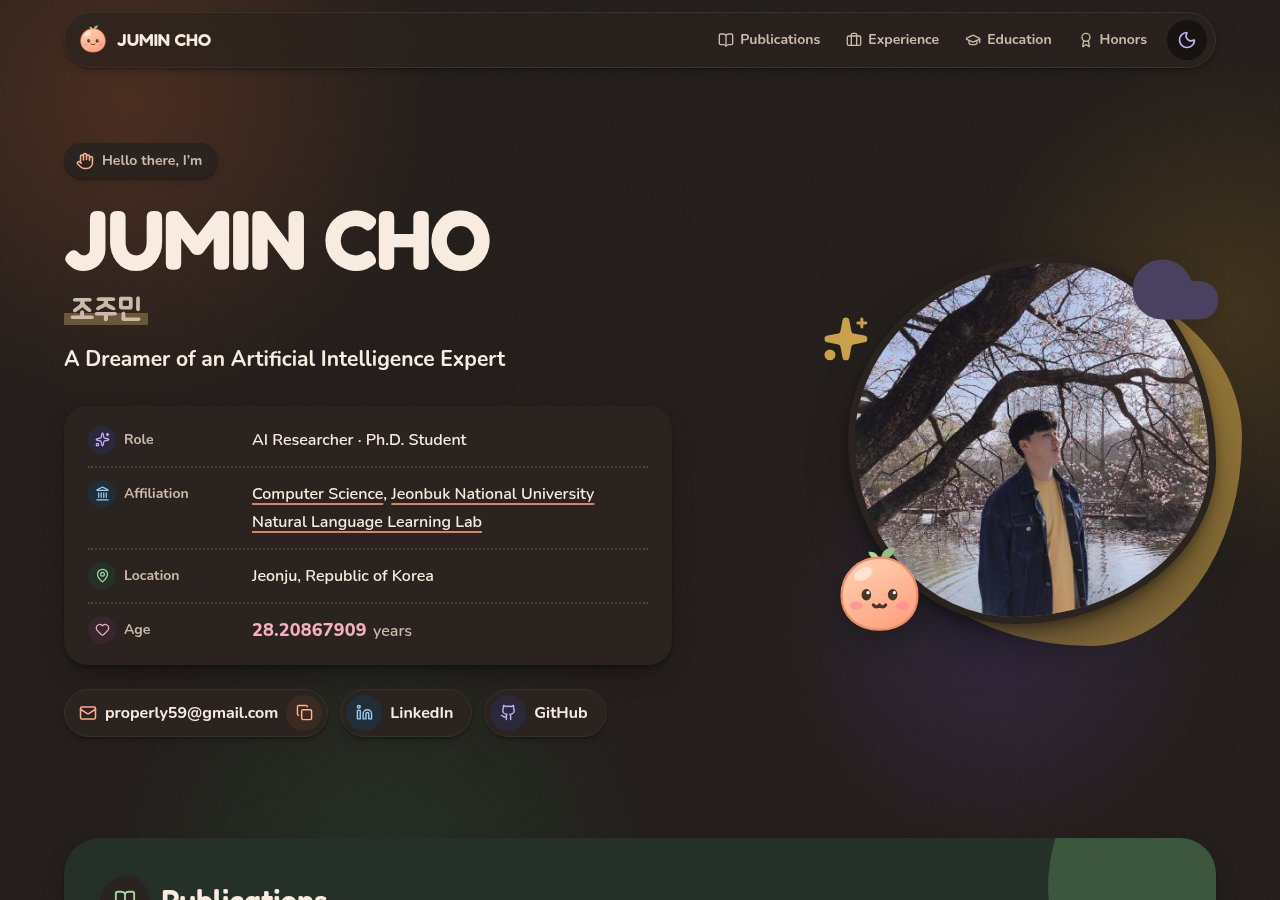
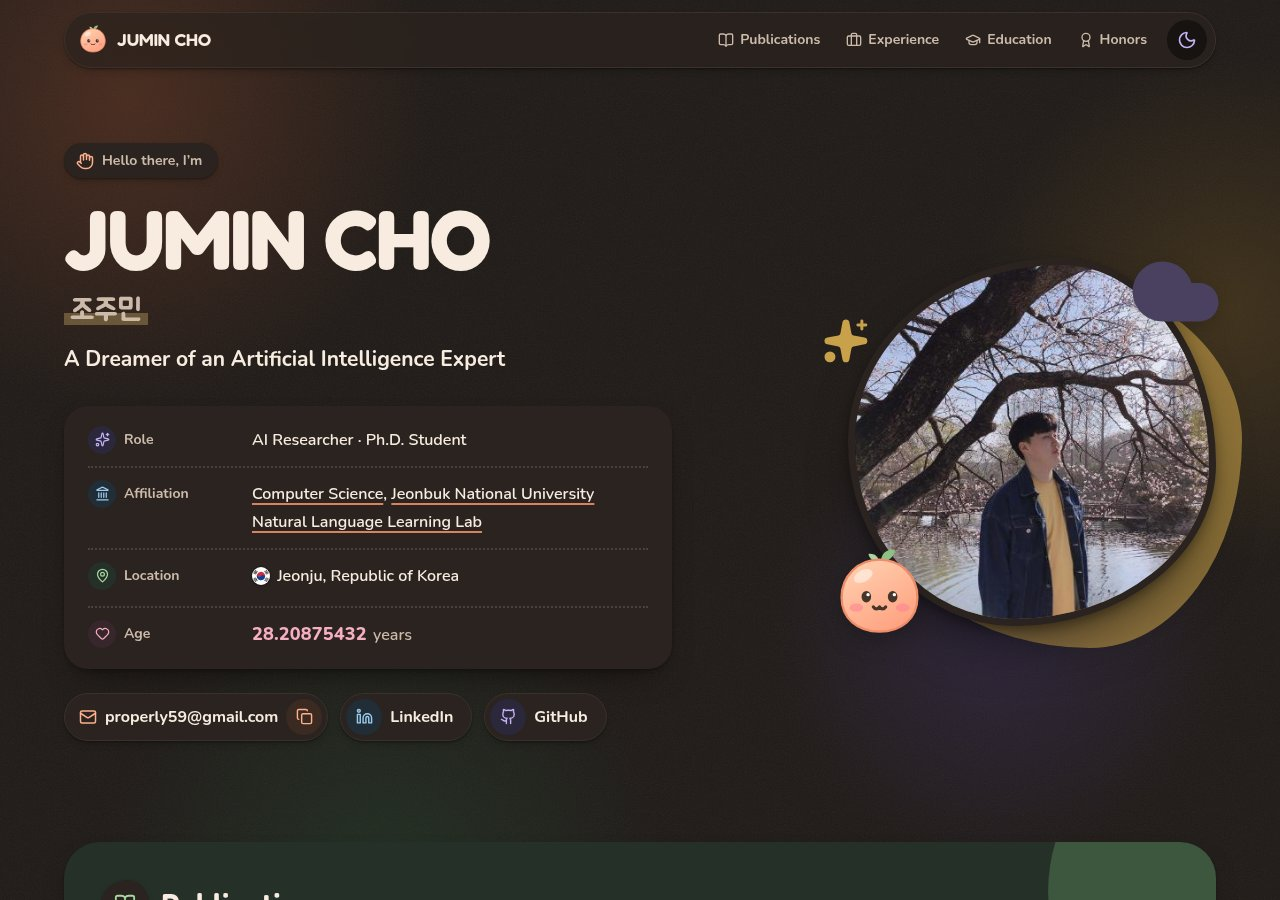
Put a round Korean flag before the hero location
- Draw the Taegukgi in Flag.tsx, scaled into the round sticker with the
  trigrams on the flag's diagonals (geon top left, gon bottom right,
  ri bottom left, gam top right).
- Model profile.location as a Place, like the paper venues, and render
  both with a shared PlaceName component.
- Refresh the README previews and describe the flag in the docs.

diff --git a/src/components/Flag.tsx b/src/components/Flag.tsx
@@ -5,9 +5,31 @@ import styles from './Flag.module.css'
 /*
  * Flags drawn on a 24 × 24 grid and shown as round stickers. Emoji flags are
  * not an option: Windows renders them as two letters. National colours are
- * fixed, so they are not tokens. Add a country here when a new venue needs it.
+ * fixed, so they are not tokens. Add a country here when a new place needs it.
  */
 const drawings: Record<string, ReactNode> = {
+  // Taegukgi, scaled into the circle. Trigrams sit on the flag's diagonals
+  // (rotated 56.31° / 123.69°): ☰ geon top left, ☷ gon bottom right,
+  // ☲ ri bottom left, ☵ gam top right. Red is above the geon–gon diagonal.
+  KR: (
+    <>
+      <rect width="24" height="24" fill="#ffffff" />
+      <g transform="translate(12 12)" stroke="#000000" strokeWidth="0.9">
+        <g transform="rotate(-56.31)">
+          <path d="M-2.5-7.45h5M-2.5-8.8h5M-2.5-10.15h5" />
+          <path d="M-2.5 7.45h2.25m.5 0h2.25M-2.5 8.8h2.25m.5 0h2.25M-2.5 10.15h2.25m.5 0h2.25" />
+        </g>
+        <g transform="rotate(-123.69)">
+          <path d="M-2.5-7.45h5M-2.5-8.8h2.25m.5 0h2.25M-2.5-10.15h5" />
+          <path d="M-2.5 7.45h2.25m.5 0h2.25M-2.5 8.8h5M-2.5 10.15h2.25m.5 0h2.25" />
+        </g>
+        <g transform="rotate(-56.31)" stroke="none">
+          <circle r="5.6" fill="#cd2e3a" />
+          <path d="M0-5.6A2.8 2.8 0 0 0 0 0a2.8 2.8 0 0 1 0 5.6A5.6 5.6 0 0 1 0-5.6z" fill="#0047a0" />
+        </g>
+      </g>
+    </>
+  ),
   IT: (
     <>
       <rect width="8" height="24" fill="#009246" />

diff --git a/src/sections/Publications.tsx b/src/sections/Publications.tsx
@@ -1,7 +1,7 @@
 import { ArrowUpRight } from 'lucide-react'
 import ExternalLink from '../components/ExternalLink'
-import Flag from '../components/Flag'
 import Panel from '../components/Panel'
+import PlaceName from '../components/PlaceName'
 import { publications, selfNames } from '../data/profile'
 import type { Publication } from '../data/types'
 import { panelProps } from './looks'
@@ -35,8 +35,7 @@ export default function Publications() {
               <p className={styles.venue}>{venueLabel(paper)}</p>
               {paper.place && (
                 <p className={styles.place}>
-                  <Flag code={paper.place.countryCode} />
-                  {`${paper.place.city}, ${paper.place.country}`}
+                  <PlaceName place={paper.place} />
                 </p>
               )}
             </div>

diff --git a/src/data/profile.ts b/src/data/profile.ts
@@ -6,7 +6,7 @@
  * `vite.config.ts` also reads `site` to fill the <head> tags, so keep this file
  * free of browser-only code.
  */
-import type { Honor, Link, Publication, SectionMeta, TimelineEntry } from './types'
+import type { Honor, Link, Place, Publication, SectionMeta, TimelineEntry } from './types'
 
 export const site = {
   title: 'JUMIN WHO?',
@@ -24,7 +24,7 @@ export const profile = {
   nameKo: '조주민',
   tagline: 'A Dreamer of an Artificial Intelligence Expert',
   role: 'AI Researcher · Ph.D. Student',
-  location: 'Jeonju, Republic of Korea',
+  location: { city: 'Jeonju', country: 'Republic of Korea', countryCode: 'KR' } satisfies Place,
   /** Birth instant (KST) for the live age counter. */
   birth: '1998-07-10T00:00:00+09:00',
   email: 'properly59@gmail.com',

diff --git a/src/sections/Hero.tsx b/src/sections/Hero.tsx
@@ -7,6 +7,7 @@ import LiveAge from '../components/LiveAge'
 import Mascot from '../components/Mascot'
 import NameFlip from '../components/NameFlip'
 import type { Tone } from '../components/Panel'
+import PlaceName from '../components/PlaceName'
 import { labels, profile } from '../data/profile'
 import { useScrolled } from '../hooks/useScrolled'
 import { cx } from '../lib/cx'
@@ -94,7 +95,7 @@ export default function Hero() {
             </ExternalLink>
           </Fact>
           <Fact icon={MapPin} tone="sage" label={labels.location}>
-            {profile.location}
+            <PlaceName place={profile.location} />
           </Fact>
           <Fact icon={Heart} tone="rose" label={labels.age} beating>
             <span className={styles.age}>

diff --git a/src/components/PlaceName.tsx b/src/components/PlaceName.tsx
@@ -1,0 +1,14 @@
+import type { Place } from '../data/types'
+import { cx } from '../lib/cx'
+import Flag from './Flag'
+import styles from './PlaceName.module.css'
+
+/** "Rome, Italy" with the country's round flag in front. */
+export default function PlaceName({ place, className }: { place: Place; className?: string }) {
+  return (
+    <span className={cx(styles.place, className)}>
+      <Flag code={place.countryCode} />
+      {`${place.city}, ${place.country}`}
+    </span>
+  )
+}

diff --git a/src/data/types.ts b/src/data/types.ts
@@ -20,7 +20,7 @@ export interface TimelineEntry {
   advisor?: Link
 }
 
-/** Where a conference took place. */
+/** A city, shown with its country's flag: where Jumin is based, or where a conference took place. */
 export interface Place {
   city: string
   country: string

diff --git a/src/sections/Publications.module.css b/src/sections/Publications.module.css
@@ -43,9 +43,6 @@
 }
 
 .place {
-  display: inline-flex;
-  align-items: center;
-  gap: 6px;
   color: var(--ink-soft);
   font-size: var(--text-xs);
   font-weight: 700;

diff --git a/src/components/PlaceName.module.css b/src/components/PlaceName.module.css
@@ -1,0 +1,5 @@
+.place {
+  display: inline-flex;
+  align-items: center;
+  gap: 0.45em;
+}

diff --git a/README.md b/README.md
@@ -24,7 +24,7 @@ Jeonbuk National University.
 - A live age counter, running from 1998-07-10 to eight decimal places.
 - Mongle the mascot, a peach mochi that becomes the favicon, the app icons and the link-preview
   (Open Graph) image.
-- Round flag stickers that show where each paper was presented.
+- Round flag stickers in front of places: where Jumin is based, and where each paper was presented.
 - A theme toggle that follows the operating system until you pick one, a copy-email button and
   print styles.
 - Respect for reduced motion, screen readers and keyboard navigation, with WCAG AA contrast or
@@ -58,7 +58,7 @@ it to GitHub Pages.
 ├── src/
 │   ├── data/                     profile.ts (all content) and types.ts
 │   ├── sections/                 Hero, Publications, Experience, Education, Honors
-│   ├── components/               NameFlip, LiveAge, Panel, Timeline, Flag, CopyEmail, ThemeToggle, …
+│   ├── components/               NameFlip, LiveAge, Panel, Timeline, Flag, PlaceName, CopyEmail, …
 │   ├── layout/                   Header, Footer, Backdrop (the drifting blobs)
 │   ├── hooks/                    useScrolled, useActiveSection, useTheme
 │   ├── lib/                      cx, theme
@@ -98,7 +98,7 @@ Edit `src/data/profile.ts` and nothing else; components never hold facts or word
 | Export | Holds |
 | --- | --- |
 | `site` | Page title, description, address and last-updated month; the `<head>` tags are built from it |
-| `profile` | Name, alias, Korean name, tagline, affiliation, birth instant, email, photo and links |
+| `profile` | Name, alias, Korean name, tagline, affiliation, location, birth instant, email, photo and links |
 | `sections` | Section order, titles and navigation labels |
 | `publications`, `selfNames` | Papers, with venue and place, and the spellings of Jumin's name to highlight |
 | `experience`, `education` | Timeline entries; periods are `{ from, to?, expected? }` |
@@ -107,8 +107,9 @@ Edit `src/data/profile.ts` and nothing else; components never hold facts or word
 
 - Korean text is welcome anywhere. The build subsets the Korean display font (Jua) to exactly the
   characters in use.
-- A paper's `place` takes a city, a country and an ISO country code. Italy and Japan have flag
-  drawings in `src/components/Flag.tsx`; any other code shows a map pin until you add one.
+- Places (`profile.location` and each paper's `place`) take a city, a country and an ISO country
+  code. Korea, Italy and Japan have flag drawings in `src/components/Flag.tsx`; any other code
+  shows a map pin until you add one.
 - After changing the name, tagline, affiliation or photo, run `npm run icons` so the link-preview
   image matches.
 

diff --git a/docs/DESIGN.md b/docs/DESIGN.md
@@ -121,8 +121,9 @@ AI 연구자이자 박사과정생 조주민의 한 페이지 프로필입니다
 - 논문은 1차 출처(출판사 PDF, 프로시딩 페이지)로 링크합니다. 1차 출처가 없으면 검색 결과를 걸지 말고 링크 없이
   학회명만 씁니다.
 - 기간은 `{ from, to?, expected? }`로 적습니다. `to`가 없으면 "present"로 표시합니다.
-- 논문 개최지는 `place: { city, country, countryCode }`로 적습니다. 국기는 `Flag.tsx`에 SVG로 그리고, 그림이 없는
-  나라는 지도 핀으로 대신합니다. 새 나라가 필요하면 그림을 추가합니다.
+- 장소(히어로의 위치 `profile.location`, 논문 개최지 `place`)는 `{ city, country, countryCode }`로 적고, 화면에는
+  `PlaceName`이 "원형 국기 + 도시, 나라"로 보여 줍니다. 국기는 `Flag.tsx`에 SVG로 그립니다(지금은 한국, 이탈리아,
+  일본). 그림이 없는 나라는 지도 핀으로 대신하니, 새 나라가 필요하면 그림을 추가합니다.
 - 기관과 지도교수는 공식 페이지로 링크하고, 외부 링크는 새 탭으로 엽니다.
 - 이메일은 복사 버튼이 붙은 일반 텍스트로 둡니다. `mailto:` 링크로 만들지 않습니다.
 - 화면 문구(인사말, 라벨, 스크린리더용 문장)도 `profile.ts`의 `labels`에 둡니다.
@@ -131,7 +132,7 @@ AI 연구자이자 박사과정생 조주민의 한 페이지 프로필입니다
 
 - 지어낸 소개글, 스킬 막대, 숫자 부풀리기
 - 날카로운 모서리, 회색 그림자, 강한 그라디언트 글자, 유리 효과 남발(헤더 한 곳만 씀)
-- 목록마다 아이콘 붙이기(섹션 배지, 사실 행, 논문 개최지 국기에만 씀)
+- 목록마다 아이콘 붙이기(섹션 배지, 사실 행, 장소 앞 국기에만 씀)
 - 국기 이모지. Windows에서는 국기 대신 "IT" 같은 글자로 보이므로 SVG 국기를 씀
 - 스톡 이미지나 생성 이미지(사진은 본인 사진 한 장, 장식은 마스코트와 도형만 씀)
 - 블로그, 관리자 기능, CMS, Supabase, Mapbox 재도입(2026-09 개편에서 제거함)
